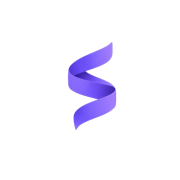
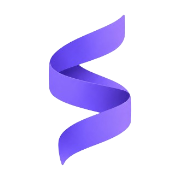
fix: 裁剪图标透明留白并放大显示尺寸

Changed region(s): [[0.25, 0.0833, 0.75, 0.9167]]

diff --git a/packages/app/src/App.tsx b/packages/app/src/App.tsx
@@ -14,12 +14,12 @@ import {
 import { spinthCommands } from '@spinth/react';
 import { initTheme, toggleTheme, THEME_CHANGE_EVENT, type Theme } from './theme';
 
-/** 品牌图标（packages/app/public/spinth-logo.png）——顶栏/加载态共用；
- *  favicon 用同源 32/180 派生图（index.html） */
+/** 品牌图标（packages/app/public/spinth-mark.png）——顶栏/加载态共用；
+ *  mark 已裁掉原图透明留白；favicon 用同源 32/180 派生图（index.html） */
 function BrandMark({ className }: { className?: string }) {
   return (
     <img
-      src="/spinth-logo.png"
+      src="/spinth-mark.png"
       alt=""
       aria-hidden="true"
       draggable={false}
@@ -65,7 +65,7 @@ export function App() {
     <div className="flex h-dvh w-screen flex-col bg-canvas text-ink">
       <header className="z-20 flex h-11 shrink-0 items-center justify-between border-b border-edge bg-surface px-4">
         <div className="flex items-center gap-2.5">
-          <BrandMark className="h-7 w-7" />
+          <BrandMark className="h-7 w-auto" />
           <span className="text-[15px] font-extrabold tracking-tight">spinth</span>
           <span className="ml-1 rounded-full bg-surface-hover px-2.5 py-0.5 text-xs font-bold text-ink-3">
             {docId}

diff --git a/packages/app/e2e/smoke.spec.ts b/packages/app/e2e/smoke.spec.ts
@@ -205,8 +205,8 @@ test('单机启动：wsState=off、无 wsProvider、无外部网络请求', asyn
   expect(state.wsProvider).toBeNull();
   expect(external).toEqual([]);
 
-  // 品牌图标来自 public/，顶栏实际加载成功（不是 404 占位）
-  const logo = page.locator('header img[src="/spinth-logo.png"]');
+  // 品牌图标来自 public/（裁掉透明留白的 mark），顶栏实际加载成功（不是 404 占位）
+  const logo = page.locator('header img[src="/spinth-mark.png"]');
   await expect(logo).toBeVisible();
-  expect(await logo.evaluate((el) => (el as HTMLImageElement).naturalWidth)).toBe(500);
+  expect(await logo.evaluate((el) => (el as HTMLImageElement).naturalWidth)).toBe(169);
 });

diff --git a/packages/app/README.md b/packages/app/README.md
@@ -5,5 +5,6 @@
 
 只消费 @spinth/react。开发：仓库根 `pnpm dev`（:5173）；E2E：仓库根 `pnpm test:e2e`。
 
-品牌资产在 `public/`：`spinth-logo.png` 顶栏/加载态使用；`favicon-32.png`、
-`apple-touch-icon.png` 由同源 logo 派生，分别供浏览器标签页和 iOS 主屏使用。
+品牌资产在 `public/`：`spinth-logo.png` 是原图；`spinth-mark.png` 裁掉透明留白，
+供顶栏/加载态使用；`favicon-32.png`、`apple-touch-icon.png` 由 mark 派生，分别供
+浏览器标签页和 iOS 主屏使用。
